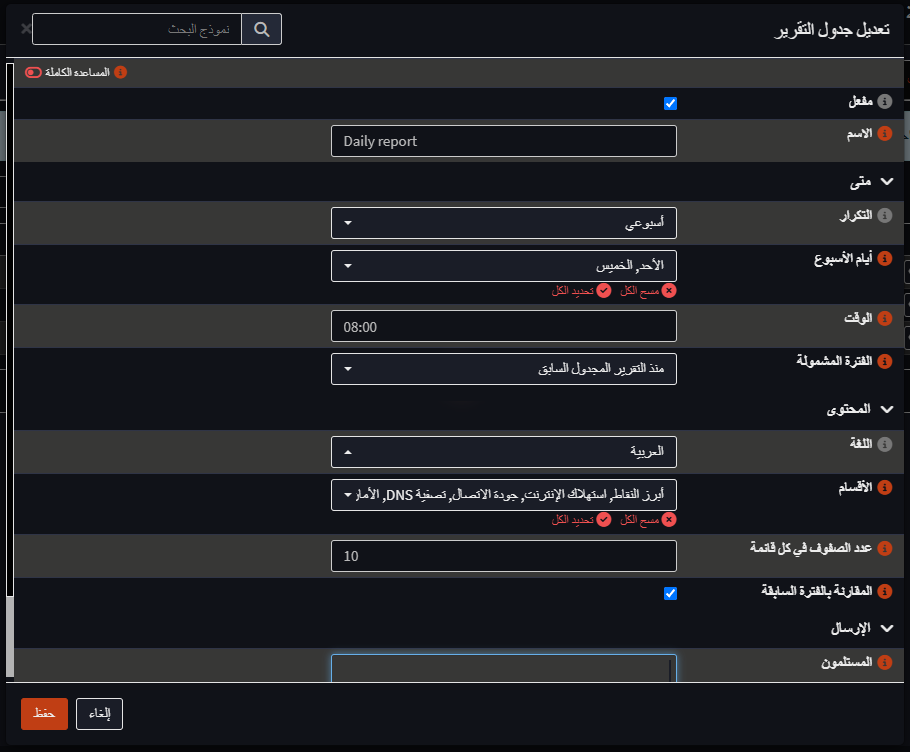
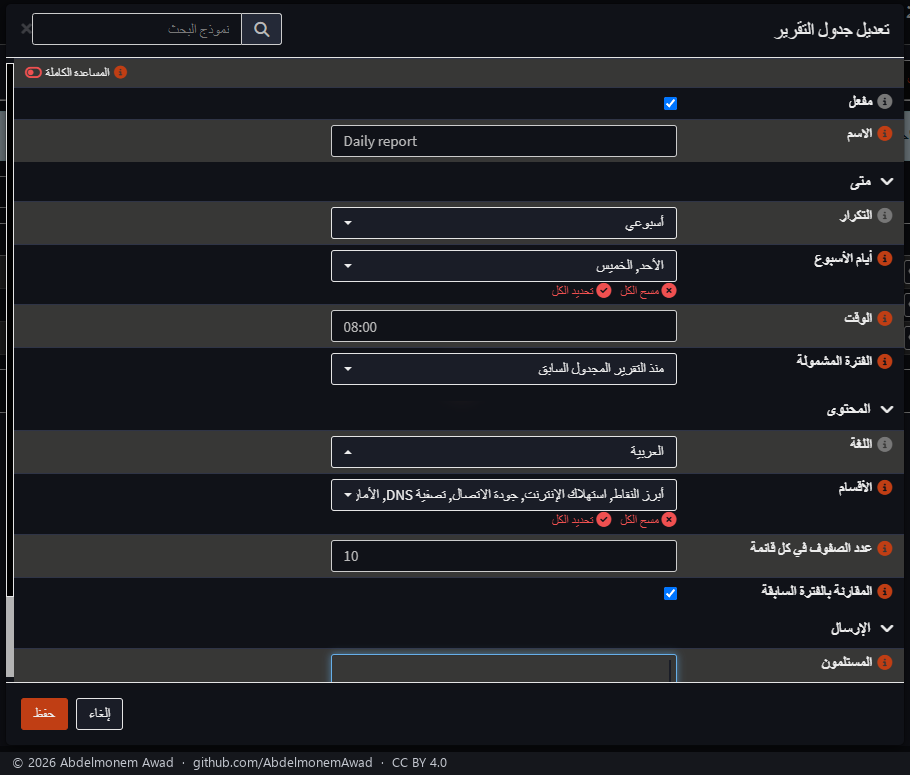
The images carry their owner and licence (CC BY 4.0) (#11)

Changed region(s): [[0.0, 0.0, 1.0, 0.5199], [0.0, 0.5199, 1.0, 1.0]]

diff --git a/README.md b/README.md
@@ -131,3 +131,5 @@ nothing, and the uninstaller removes the updater, its cron entry and the stamp.
 ## License
 
 BSD 2-Clause, the same as OPNsense. See [LICENSE](LICENSE).
+
+The photographs and screenshots under `docs/` are &copy; 2026 Abdelmonem Awad, under [CC BY 4.0](https://creativecommons.org/licenses/by/4.0/): use them freely, naming the author and linking here. Each carries that notice in a strip added below it.
